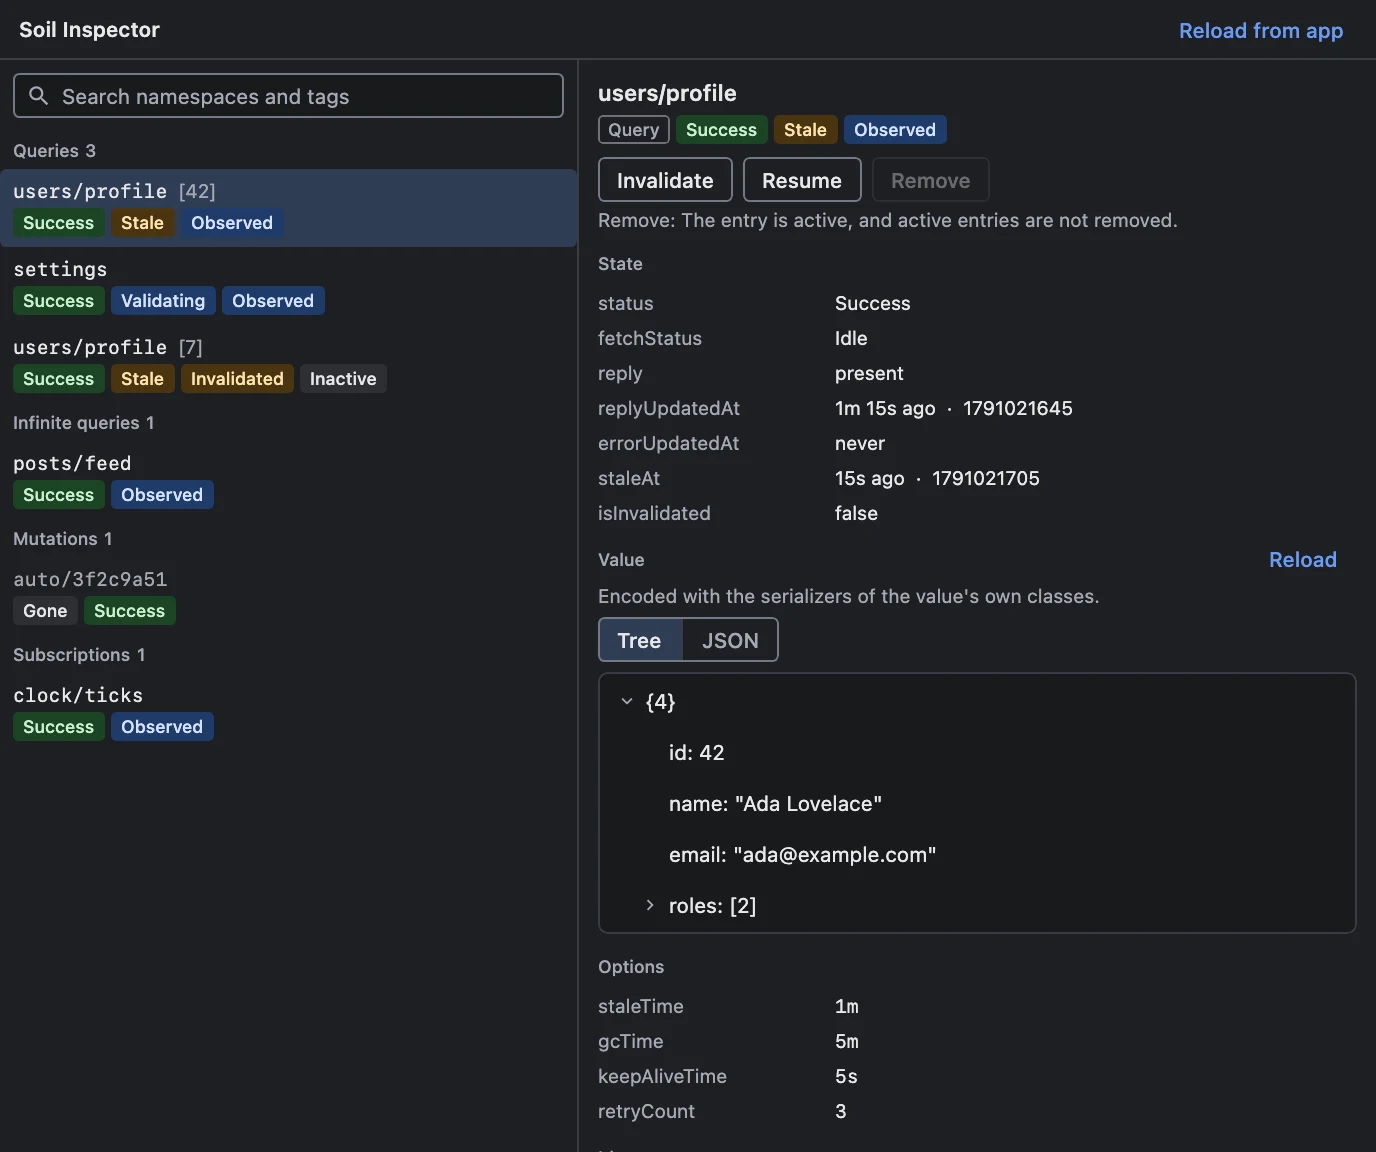
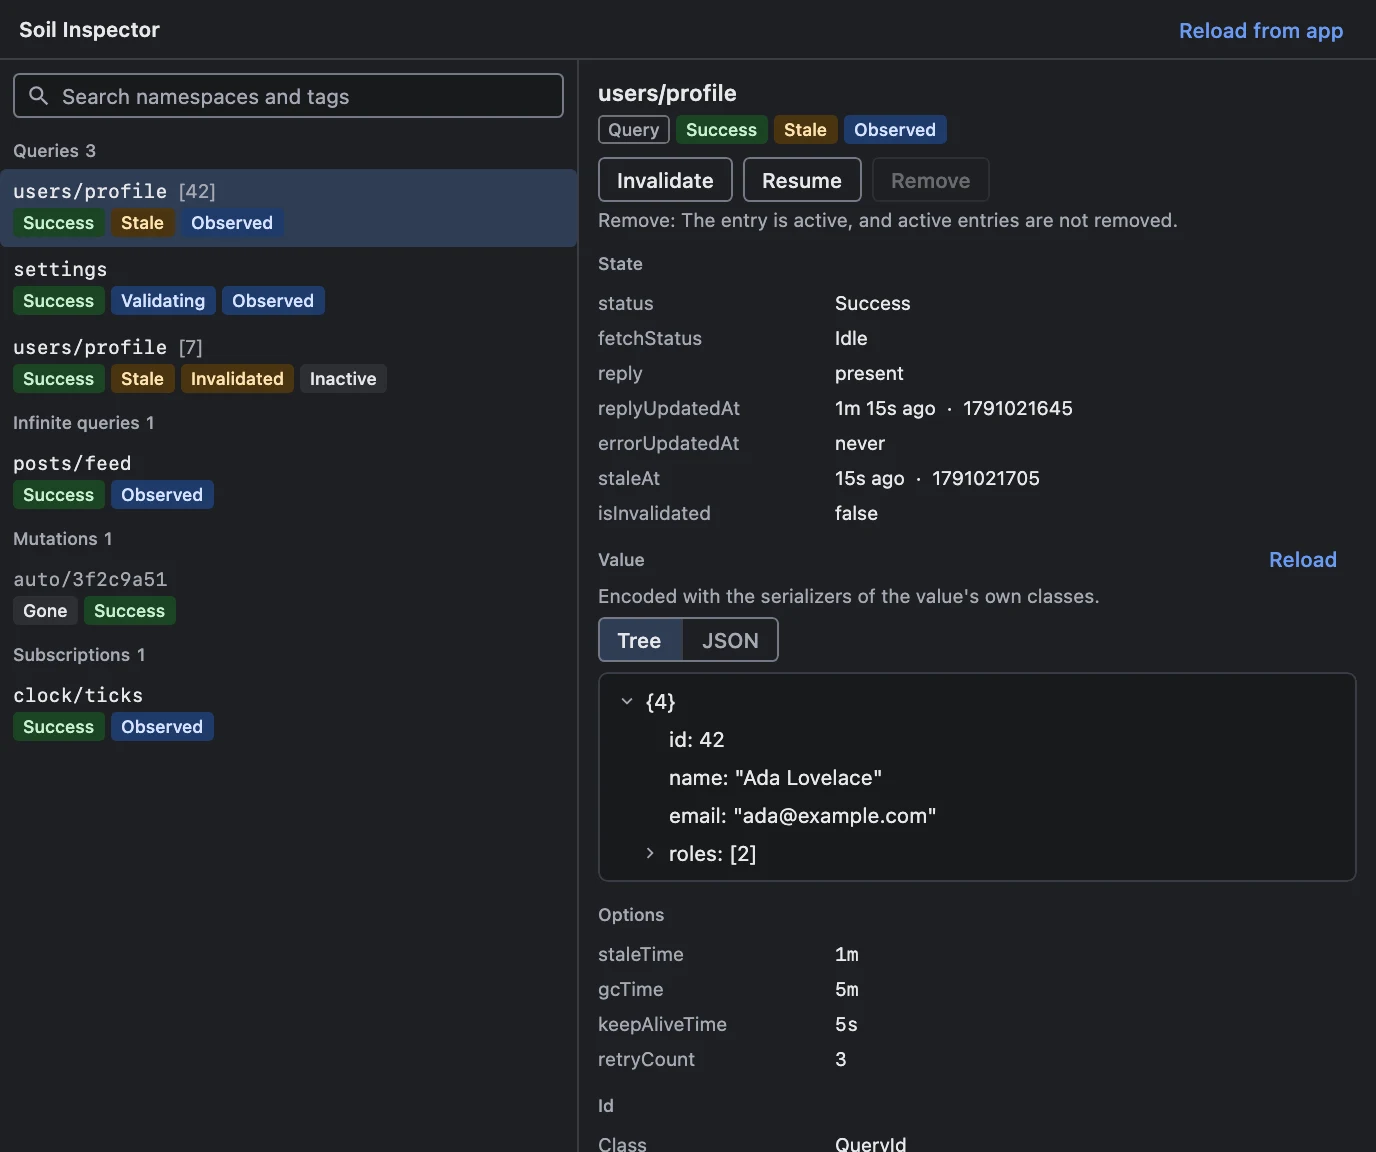
fix(soil): judge times by the app clock to the millisecond and tighten the value tree
The agent sends its clock in epoch milliseconds, so a reply Soil stamped
this second no longer reads as one second in the future on the host.
A failed query that never had data shows staleAt as never, and the
rows of a JSON value sit together instead of spaced like panels.

diff --git a/jetwhale-plugins/soil/host/src/main/kotlin/com/kitakkun/jetwhale/plugins/soil/host/SoilCacheBrowser.kt b/jetwhale-plugins/soil/host/src/main/kotlin/com/kitakkun/jetwhale/plugins/soil/host/SoilCacheBrowser.kt
@@ -86,11 +86,11 @@ internal class SoilCacheBrowser(
 
     private val adoptionLock = Any()
     private var appliedRevision = -1L
-    private var agentClockOffsetSeconds = 0L
+    private var agentClockOffsetMillis = 0L
     private var valueRequestNumber = 0L
 
     /** The app's clock now, in epoch seconds, as far as the agent's last timestamp tells. */
-    fun agentNowEpochSeconds(): Long = clock.now().epochSeconds + agentClockOffsetSeconds
+    fun agentNowEpochSeconds(): Long = (clock.now().toEpochMilliseconds() + agentClockOffsetMillis) / 1000
 
     suspend fun load() {
         adopt(client.takeSnapshot())
@@ -104,7 +104,7 @@ internal class SoilCacheBrowser(
         synchronized(adoptionLock) {
             if (snapshot.revision < appliedRevision) return
             appliedRevision = snapshot.revision
-            agentClockOffsetSeconds = snapshot.agentEpochSeconds - clock.now().epochSeconds
+            agentClockOffsetMillis = snapshot.agentEpochMillis - clock.now().toEpochMilliseconds()
             coverage = snapshot.coverage
             val reportedHandles = snapshot.entries.mapTo(mutableSetOf(), SoilEntry::handle)
             val droppedMutations = listedEntries.filter { it.entry.handle !in reportedHandles && it.entry.kind == SoilEntryKind.MUTATION }
@@ -117,7 +117,7 @@ internal class SoilCacheBrowser(
         synchronized(adoptionLock) {
             if (changes.revision <= appliedRevision) return
             appliedRevision = changes.revision
-            agentClockOffsetSeconds = changes.agentEpochSeconds - clock.now().epochSeconds
+            agentClockOffsetMillis = changes.agentEpochMillis - clock.now().toEpochMilliseconds()
             val upsertsByHandle = changes.upserts.associateBy(SoilEntry::handle)
             val removedHandles = changes.removedHandles.toSet()
             val previousSelection = selectedEntry?.entry

diff --git a/jetwhale-plugins/soil/agent/src/commonMain/kotlin/com/kitakkun/jetwhale/plugins/soil/agent/SoilCacheReporter.kt b/jetwhale-plugins/soil/agent/src/commonMain/kotlin/com/kitakkun/jetwhale/plugins/soil/agent/SoilCacheReporter.kt
@@ -12,7 +12,7 @@ import kotlinx.coroutines.launch
 import kotlinx.coroutines.sync.Mutex
 import kotlinx.coroutines.sync.withLock
 import kotlinx.coroutines.withTimeoutOrNull
-import soil.query.core.epoch
+import kotlin.time.Clock
 import kotlin.time.Duration
 import kotlin.time.Duration.Companion.milliseconds
 
@@ -33,6 +33,7 @@ private val CHANGE_COALESCING_DELAY: Duration = 100.milliseconds
 internal class SoilCacheReporter(
     private val cache: InspectedSoilCache,
     private val handles: SoilEntryHandles,
+    private val clock: Clock,
 ) {
     private val tracker = SoilCacheTracker(handles)
     private val trackerLock = Mutex()
@@ -40,7 +41,7 @@ internal class SoilCacheReporter(
 
     suspend fun takeSnapshot(): SoilCacheSnapshot = trackerLock.withLock {
         tracker.replaceEntriesWith(cache.readRecords())
-        SoilCacheSnapshot(coverage = cache.coverage, entries = tracker.entries, revision = tracker.revision, agentEpochSeconds = epoch())
+        SoilCacheSnapshot(coverage = cache.coverage, entries = tracker.entries, revision = tracker.revision, agentEpochMillis = clock.now().toEpochMilliseconds())
     }
 
     suspend fun keyOf(handle: String): SoilEntryKey? = trackerLock.withLock { handles.keyOf(handle) }
@@ -64,7 +65,7 @@ internal class SoilCacheReporter(
                 val records = cache.readRecords()
                 val changes = tracker.replaceEntriesWith(records)
                 if (!changes.isEmpty) {
-                    send(SoilEntriesChanged(upserts = changes.upserts, removedHandles = changes.removedHandles, revision = changes.revision, agentEpochSeconds = epoch()))
+                    send(SoilEntriesChanged(upserts = changes.upserts, removedHandles = changes.removedHandles, revision = changes.revision, agentEpochMillis = clock.now().toEpochMilliseconds()))
                 }
                 records
             }

diff --git a/jetwhale-plugins/soil/protocol/src/commonMain/kotlin/com/kitakkun/jetwhale/plugins/soil/protocol/SoilMessages.kt b/jetwhale-plugins/soil/protocol/src/commonMain/kotlin/com/kitakkun/jetwhale/plugins/soil/protocol/SoilMessages.kt
@@ -22,8 +22,8 @@ data object GetSoilCacheSnapshot : JetWhaleRequest<SoilCacheSnapshot>
  * @property coverage What part of the cache the agent can read.
  * @property revision Orders this snapshot among the [SoilEntriesChanged] events: an event whose
  *   revision is not greater was already accounted for here.
- * @property agentEpochSeconds The app's clock when the snapshot was taken, in epoch seconds, the
- *   unit Soil records its timestamps in. Staleness is judged against this clock, not the host's.
+ * @property agentEpochMillis The app's clock when the snapshot was taken, in epoch milliseconds.
+ *   Soil's timestamps, in epoch seconds, are judged against this clock rather than the host's.
  */
 @SerialName("soil/cache_snapshot")
 @Serializable
@@ -31,7 +31,7 @@ data class SoilCacheSnapshot(
     val coverage: SoilCacheCoverage,
     val entries: List<SoilEntry>,
     val revision: Long,
-    val agentEpochSeconds: Long,
+    val agentEpochMillis: Long,
 )
 
 /**
@@ -41,7 +41,7 @@ data class SoilCacheSnapshot(
  * @property upserts Entries that are new or changed, each in full.
  * @property removedHandles Entries Soil no longer holds, active or inactive.
  * @property revision Greater than the revision of every snapshot and event sent before it.
- * @property agentEpochSeconds The app's clock when the changes were read, in epoch seconds.
+ * @property agentEpochMillis The app's clock when the changes were read, in epoch milliseconds.
  */
 @SerialName("soil/entries_changed")
 @Serializable
@@ -49,7 +49,7 @@ data class SoilEntriesChanged(
     val upserts: List<SoilEntry>,
     val removedHandles: List<String>,
     val revision: Long,
-    val agentEpochSeconds: Long,
+    val agentEpochMillis: Long,
 ) : JetWhaleEvent
 
 /** Asks for the value the entry named by [handle] holds: its last reply. */

diff --git a/jetwhale-plugins/soil/host/src/main/kotlin/com/kitakkun/jetwhale/plugins/soil/host/SoilValueView.kt b/jetwhale-plugins/soil/host/src/main/kotlin/com/kitakkun/jetwhale/plugins/soil/host/SoilValueView.kt
@@ -82,17 +82,20 @@ private fun JsonValue(json: JsonElement) {
         JwSegmentedButtons(options = JsonValueMode.entries, selected = mode, onSelect = { mode = it }, label = JsonValueMode::label)
         when (mode) {
             JsonValueMode.TREE -> JwPanel(contentPadding = PaddingValues(JwSpacing.small)) {
-                flattenJsonTree(json, expandedPaths).forEach { line ->
-                    val toggle = { expandedPaths = if (line.path in expandedPaths) expandedPaths - line.path else expandedPaths + line.path }
-                    JwTreeRow(
-                        text = line.text,
-                        depth = line.depth,
-                        expandable = line.isExpandable,
-                        expanded = line.path in expandedPaths,
-                        selected = false,
-                        onClick = { if (line.isExpandable) toggle() },
-                        onToggleExpanded = toggle,
-                    )
+                // JwPanel spaces its children apart, and the rows of a tree read as one block.
+                Column {
+                    flattenJsonTree(json, expandedPaths).forEach { line ->
+                        val toggle = { expandedPaths = if (line.path in expandedPaths) expandedPaths - line.path else expandedPaths + line.path }
+                        JwTreeRow(
+                            text = line.text,
+                            depth = line.depth,
+                            expandable = line.isExpandable,
+                            expanded = line.path in expandedPaths,
+                            selected = false,
+                            onClick = { if (line.isExpandable) toggle() },
+                            onToggleExpanded = toggle,
+                        )
+                    }
                 }
             }
 

diff --git a/jetwhale-plugins/soil/agent/src/commonTest/kotlin/com/kitakkun/jetwhale/plugins/soil/agent/InspectedSoilCacheTest.kt b/jetwhale-plugins/soil/agent/src/commonTest/kotlin/com/kitakkun/jetwhale/plugins/soil/agent/InspectedSoilCacheTest.kt
@@ -25,6 +25,7 @@ import kotlin.test.assertFalse
 import kotlin.test.assertNotNull
 import kotlin.test.assertNull
 import kotlin.test.assertTrue
+import kotlin.time.Clock
 
 @OptIn(ExperimentalCoroutinesApi::class)
 class InspectedSoilCacheTest {
@@ -107,7 +108,7 @@ class InspectedSoilCacheTest {
     fun `a query that appears after the snapshot is reported with a greater revision`() = runTest {
         val policy = testPolicy()
         val client = SwrCache(policy)
-        val reporter = SoilCacheReporter(InspectedSoilCache(client, policy), SoilEntryHandles())
+        val reporter = SoilCacheReporter(InspectedSoilCache(client, policy), SoilEntryHandles(), Clock.System)
         val snapshot = reporter.takeSnapshot()
         val events = mutableListOf<SoilEntriesChanged>()
         backgroundScope.launch { reporter.reportChanges { events += it } }

diff --git a/jetwhale-plugins/soil/agent/src/commonMain/kotlin/com/kitakkun/jetwhale/plugins/soil/agent/JetWhaleSoilAgentPlugin.kt b/jetwhale-plugins/soil/agent/src/commonMain/kotlin/com/kitakkun/jetwhale/plugins/soil/agent/JetWhaleSoilAgentPlugin.kt
@@ -22,6 +22,7 @@ import kotlinx.coroutines.launch
 import kotlinx.coroutines.withContext
 import soil.query.SwrCachePolicy
 import soil.query.SwrClient
+import kotlin.time.Clock
 
 /**
  * Agent plugin that shows the host what an app's Soil cache holds — queries, infinite queries,
@@ -59,7 +60,7 @@ class JetWhaleSoilAgentPlugin(
     override val pluginVersion: String get() = "1.0.0"
 
     private val cache = InspectedSoilCache(client, policy)
-    private val reporter = SoilCacheReporter(cache, SoilEntryHandles())
+    private val reporter = SoilCacheReporter(cache, SoilEntryHandles(), Clock.System)
     private val valueEncoder = SoilValueEncoder(valueSerializers)
 
     /** Whether a connected host has taken a snapshot, so that changes are worth reading for it. */

diff --git a/jetwhale-plugins/soil/host/src/test/kotlin/com/kitakkun/jetwhale/plugins/soil/host/SoilMcpCommandsTest.kt b/jetwhale-plugins/soil/host/src/test/kotlin/com/kitakkun/jetwhale/plugins/soil/host/SoilMcpCommandsTest.kt
@@ -49,7 +49,7 @@ class SoilMcpCommandsTest {
 
     @Test
     fun `listEntries keeps a mutation the app dropped and marks it gone`() {
-        browser.adopt(SoilEntriesChanged(upserts = emptyList(), removedHandles = listOf(rename.handle), revision = 2, agentEpochSeconds = HOST_NOW))
+        browser.adopt(SoilEntriesChanged(upserts = emptyList(), removedHandles = listOf(rename.handle), revision = 2, agentEpochMillis = HOST_NOW * 1000))
 
         val listed = ListSoilEntriesCommand(browser).run(buildJsonObject { put("kind", "mutation") }).getValue("entries").jsonArray.single().jsonObject
 

diff --git a/jetwhale-plugins/soil/host/src/main/kotlin/com/kitakkun/jetwhale/plugins/soil/host/SoilEntryDetailPane.kt b/jetwhale-plugins/soil/host/src/main/kotlin/com/kitakkun/jetwhale/plugins/soil/host/SoilEntryDetailPane.kt
@@ -137,7 +137,7 @@ private fun stateRowsOf(state: SoilEntryState, agentNowEpochSeconds: Long): List
         add("errorUpdatedAt" to time(state.errorUpdatedAt, whenZero = "never"))
         when (state) {
             is SoilEntryState.Query -> {
-                add("staleAt" to time(state.staleAt, whenZero = "0 (stale from the start)"))
+                add("staleAt" to time(state.staleAt, whenZero = if (state.hasReply) "0 (stale from the start)" else "never"))
                 add("isInvalidated" to state.isInvalidated.toString())
             }
 

diff --git a/jetwhale-plugins/soil/protocol/src/commonTest/kotlin/com/kitakkun/jetwhale/plugins/soil/protocol/SoilMessagesTest.kt b/jetwhale-plugins/soil/protocol/src/commonTest/kotlin/com/kitakkun/jetwhale/plugins/soil/protocol/SoilMessagesTest.kt
@@ -48,7 +48,7 @@ class SoilMessagesTest {
                 ),
             ),
             revision = 7,
-            agentEpochSeconds = 200,
+            agentEpochMillis = 200_000,
         )
 
         assertEquals(snapshot, json.decodeFromString(SoilCacheSnapshot.serializer(), json.encodeToString(SoilCacheSnapshot.serializer(), snapshot)))

diff --git a/jetwhale-plugins/soil/host/src/test/kotlin/com/kitakkun/jetwhale/plugins/soil/host/FakeSoilCacheClient.kt b/jetwhale-plugins/soil/host/src/test/kotlin/com/kitakkun/jetwhale/plugins/soil/host/FakeSoilCacheClient.kt
@@ -86,5 +86,5 @@ internal fun snapshotOf(vararg entries: SoilEntry, revision: Long = 1, agentEpoc
     coverage = readableCoverage,
     entries = entries.toList(),
     revision = revision,
-    agentEpochSeconds = agentEpochSeconds,
+    agentEpochMillis = agentEpochSeconds * 1000,
 )

diff --git a/jetwhale-plugins/soil/host/src/test/kotlin/com/kitakkun/jetwhale/plugins/soil/host/SoilCacheBrowserTest.kt b/jetwhale-plugins/soil/host/src/test/kotlin/com/kitakkun/jetwhale/plugins/soil/host/SoilCacheBrowserTest.kt
@@ -143,6 +143,6 @@ class SoilCacheBrowserTest {
         upserts = upserts,
         removedHandles = removedHandles,
         revision = revision,
-        agentEpochSeconds = HOST_NOW,
+        agentEpochMillis = HOST_NOW * 1000,
     )
 }
